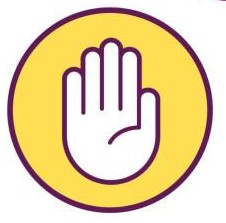
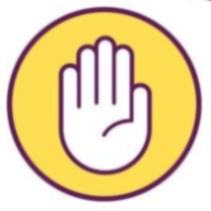
amend dimensions of images and add some css

Changed region(s): [[0.0284, 0.0284, 0.9668, 0.9668], [0.2559, 0.1422, 0.7393, 0.8531], [0.9668, 0.0, 1.0, 0.0284]]

diff --git a/assets/css/style.css b/assets/css/style.css
@@ -1,0 +1,14 @@
+@import url('https://fonts.googleapis.com/css2?family=Fira+Sans&display=swap');
+
+/* Main page style */
+
+html {
+    min-height: 100%;
+    position: relative;
+}
+
+body {
+    font-family: 'Fira Sans';
+    margin: 0;
+    background-color: #DDA0DD;
+}
